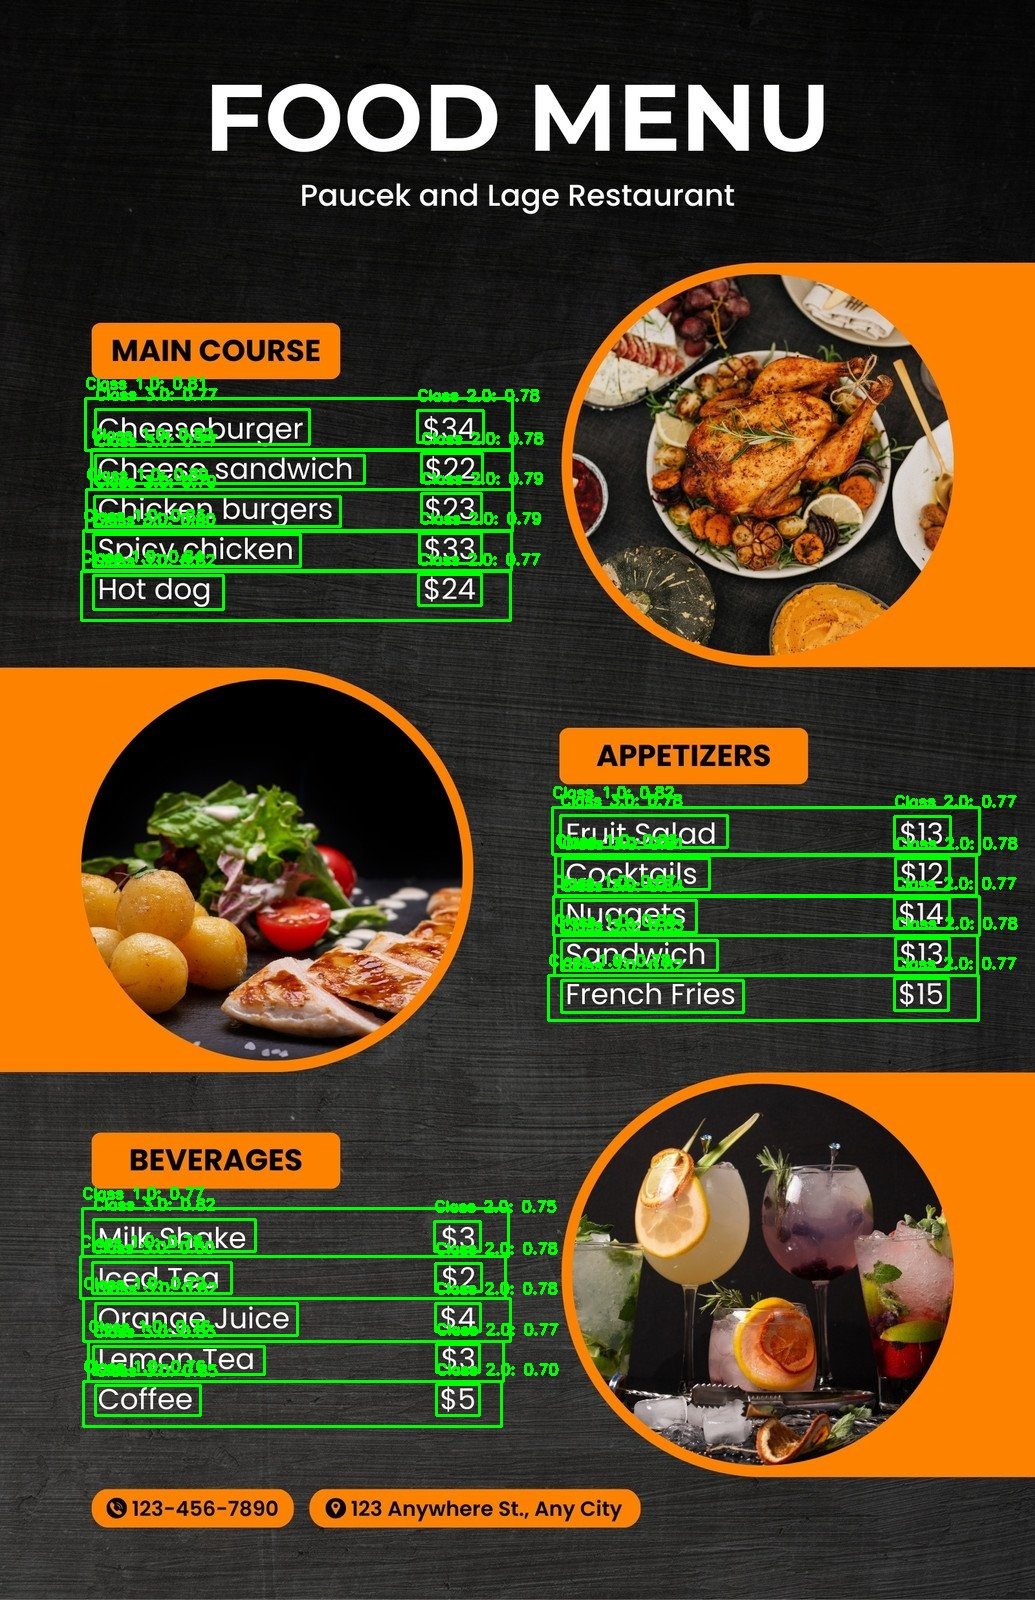
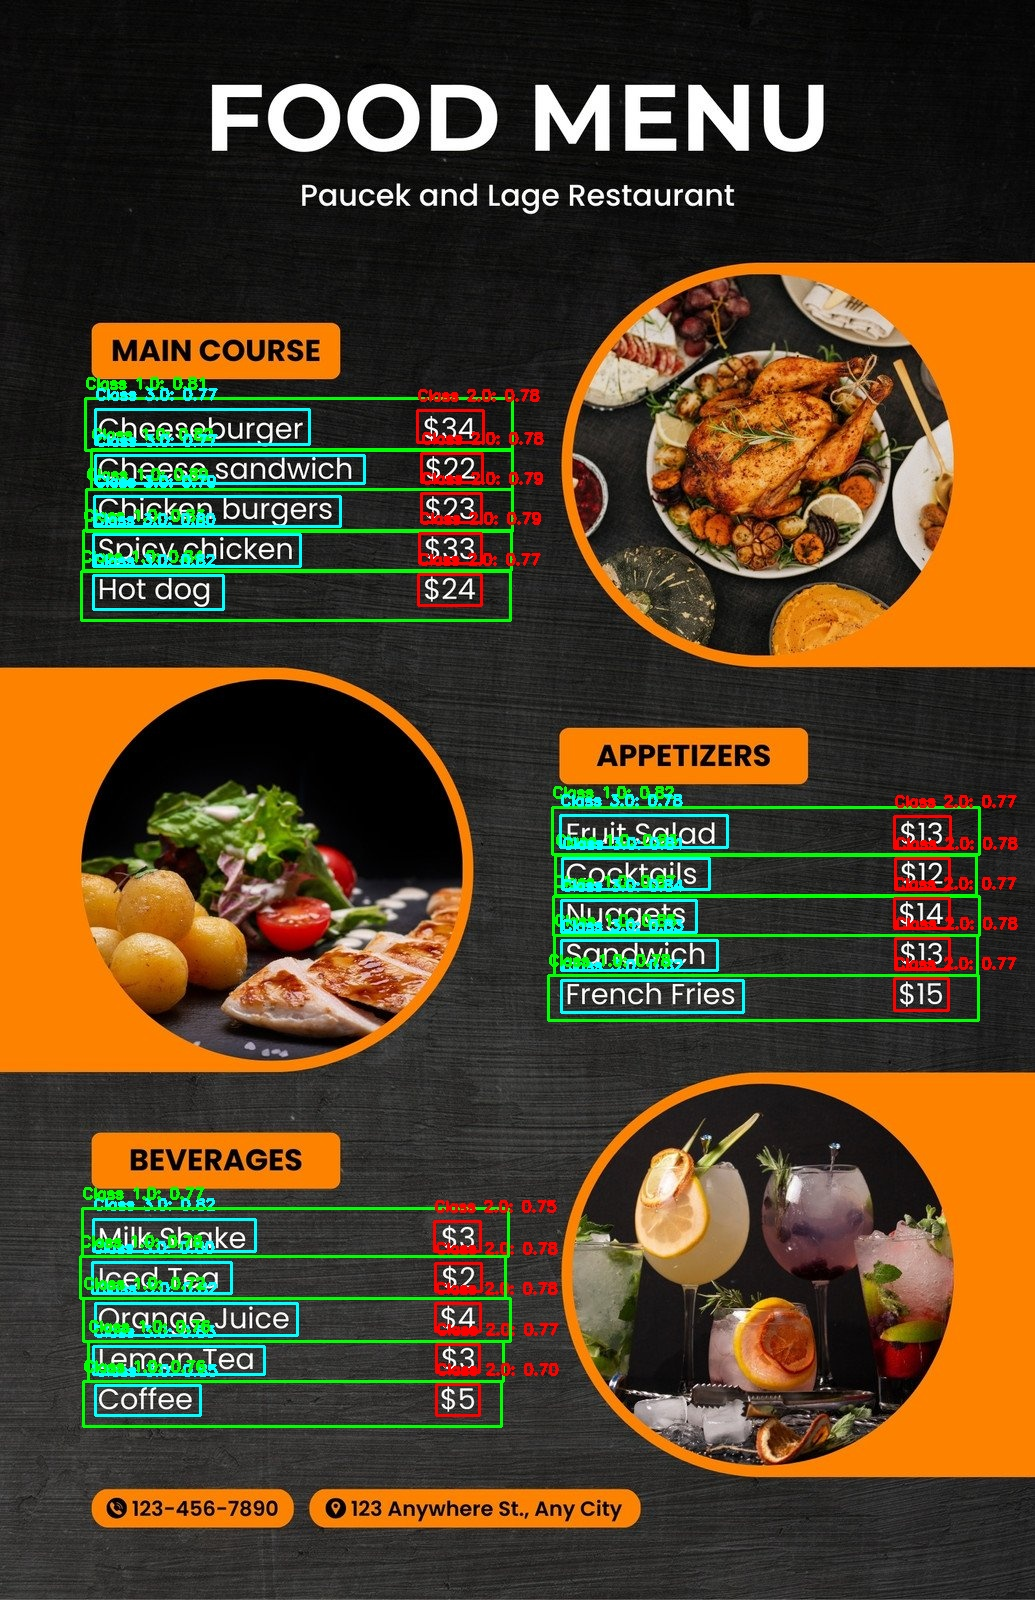
draw bboxes modification

diff --git a/yolov8_menu_card/model_detect_bbox.py b/yolov8_menu_card/model_detect_bbox.py
@@ -23,6 +23,14 @@ def get_bounding_boxes(image_path, draw=False, output_path="output_with_bboxes.j
     # Get predictions from the model
     results = model.predict(source=image, save=False)
     
+    # Define colors for each class_id
+    colors = {
+        0: (255, 0, 0),    # Red for description
+        1: (0, 255, 0),    # Green for item area
+        2: (0, 0, 255),    # Blue for price
+        3: (255, 255, 0)   # Yellow for title
+    }
+    
     # Extract bounding boxes, confidence scores, and class IDs
     bounding_boxes = []
     for box in results[0].boxes.data.cpu().numpy():
@@ -31,11 +39,11 @@ def get_bounding_boxes(image_path, draw=False, output_path="output_with_bboxes.j
         
         # Draw the bounding box if 'draw' is set to True
         if draw:
-            # Define color and label based on class_id
-            color = (0, 255, 0)  # Green for example
+            # Get color based on class_id, default to white if class_id is unknown
+            color = colors.get(int(class_id), (255, 255, 255))
             label = f"Class {class_id}: {confidence:.2f}"
             
-            # Draw the bounding box
+            # Draw the bounding box with the corresponding color
             cv2.rectangle(image, (int(x1), int(y1)), (int(x2), int(y2)), color, 2)
             # Add label text above the bounding box
             cv2.putText(image, label, (int(x1), int(y1) - 10), cv2.FONT_HERSHEY_SIMPLEX, 0.5, color, 2)

diff --git a/main.py b/main.py
@@ -1,5 +1,7 @@
 from image_to_text.image_to_text import process_menu_image
-test_image_path = "./real_menu_card_images/carta2.jpg"
+
+
+test_image_path = "./real_menu_card_images/carta1.jpg"
 output_image_path = "output_with_bboxes.jpg"
 output_txt_path = "menu_text_output.txt"
 

diff --git a/README.md b/README.md
@@ -7,10 +7,10 @@ Este proyecto tiene como objetivo facilitar la digitalización de cartas de rest
 
 Para adaptar YOLOv8 a la detección y segmentación de componentes específicos en cartas de restaurantes, se ha realizado un ajuste fino (fine-tuning) del modelo utilizando un conjunto de datos personalizado. Este dataset incluye imágenes de menús de diferentes idiomas, tamaños y disposiciones, proporcionando una mayor versatilidad y precisión en la detección. Las etiquetas para la segmentación incluyen:
 
-- `0` - Descripción del plato: detalla los ingredientes o características.
-- `1` - Área de todos los componentes del plato: incluye todas las secciones visibles del plato.
-- `2` - Precio del plato: permite extraer el costo asociado.
-- `3` - Título del plato: contiene el nombre o título principal del plato.
+- `0` - Descripción del plato: detalla los ingredientes o características. <span style="display: inline-block; width: 12px; height: 12px; background-color: #FF0000; margin-left: 5px;"></span>
+- `1` - Área de todos los componentes del plato: incluye todas las secciones visibles del plato. <span style="display: inline-block; width: 12px; height: 12px; background-color: #00FF00; margin-left: 5px;"></span>
+- `2` - Precio del plato: permite extraer el costo asociado. <span style="display: inline-block; width: 12px; height: 12px; background-color: #0000FF; margin-left: 5px;"></span>
+- `3` - Título del plato: contiene el nombre o título principal del plato. <span style="display: inline-block; width: 12px; height: 12px; background-color: #FFFF00; margin-left: 5px;"></span>
 
 Estas etiquetas facilitan una detección precisa y organizada de los elementos más relevantes en una carta de restaurante.
 
